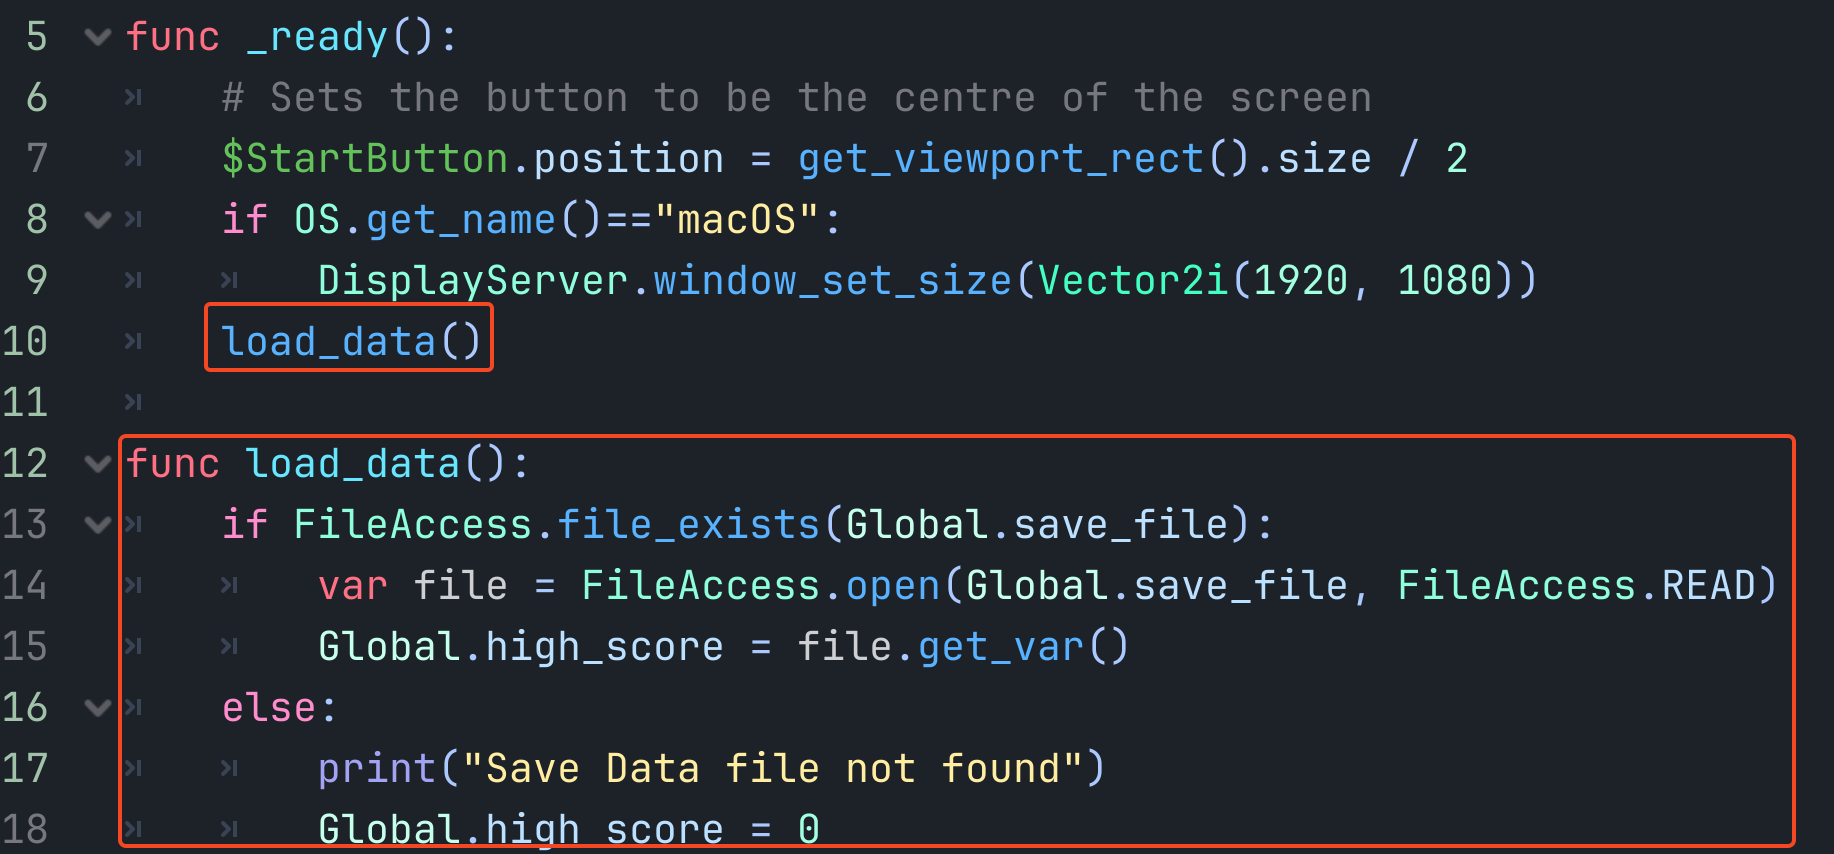
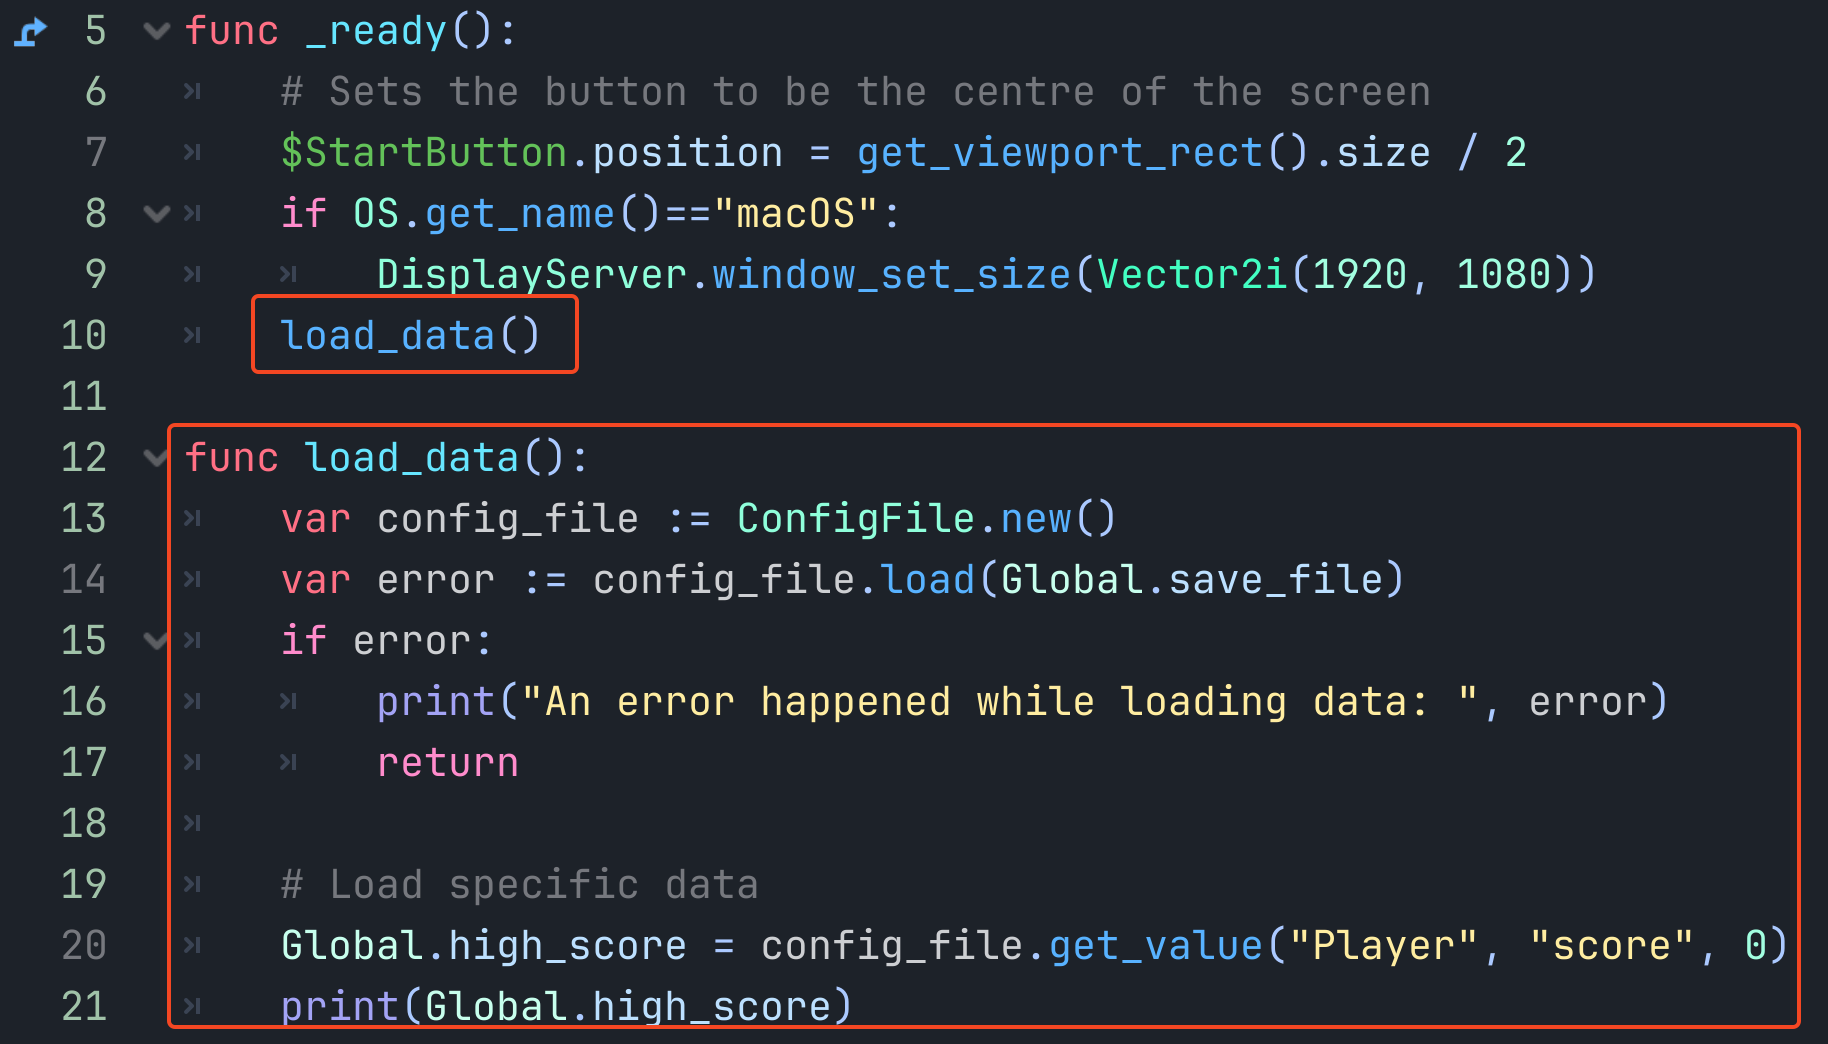
update to ConfigFile

diff --git a/ISD/2 - Digital Applications/_topics/tutorials/High Score System.md b/ISD/2 - Digital Applications/_topics/tutorials/High Score System.md
@@ -3,8 +3,6 @@
 > [!info] The data stored on HDD/SSD, is referred as `persistent data`.
 
 In this tutorial, you'll be storing the players score as persistent data, so subsequent playthroughs can keep a track of the high score.
-
-
 ## Persistent Data
 
 Before implementing any form of persistent data, the exact data that needs to be save must be determined. The points where the data is loaded from and saved to the local drive must be decided.
@@ -13,7 +11,7 @@ Your application must also be prepared for attempting to load the data, however 
 
 Godot has an inbuilt system to save data and nodes to the local drive, however this tutorial will focus on only saving and loading the previous high scores.
 
-Before implementing persistent data, there are a few topics to understand - where the user data is stored and serialisation.
+Before implementing persistent data, there are a few topics to understand - where the user data is stored.
 
 ## Godot User Data
 
@@ -27,12 +25,6 @@ User data uses the `user://` prefix which points to a different folder which is 
 > `%APPDATA%\Godot\app_userdata\[project_name]` on Windows.
 > 
 > [https://docs.godotengine.org/en/stable/tutorials/io/data_paths.html](https://docs.godotengine.org/en/stable/tutorials/io/data_paths.html)
-
-## Serialisation
-
-`Serialisation` is the process of preparing data and objects to save to disk or transmitted.
-
-In this case, you will want to serialise and store the `current_score` variable in `Global.gd`.
 
 # Update `Global.gd`
 
@@ -60,17 +52,34 @@ In the new script create a `save_data()` function, calling it from `_ready()`.
 Inside `save_data()`, the connection to the file is created, and opened to write data to it. 
 
 After the connection is made, you simply write the value of the variable to the file using `store_var` which uses the Godot built in serialisation process.
+
+> [!info]- `set_value()`
+> When saving individual variables to the file, you use the `set_value` function. The function takes three arguments.
+> **First argument** - The *section*. This is a way to organise the save file. For instance, all the Player variables would be stored in the Player section.
+> **Second argument** - The *key*. This is equivalent to the variable name. It's organised like a key-value-pair or dictionary where keys have a particular value.
+> **Third argument** - The *value*. This is the actual data that you want to save.
+> So the code below would create a "Player" section, which contained a "score" key, with a specific value attached.
+
 ![[persistentDataFuncSave.png]]
+
+```gdscript
+func save_data():
+	var file = ConfigFile.new()
+	#var error = file.open(Global.save_file, file.WRITE)
+	file.set_value("Player", "score", Global.current_score)
+	var error := file.save(Global.save_file)
+
+	if error:
+		print("!!Data Not Saved!!")
+```
 
 ## Test the saving process
 
 Run through the game, killing all the enemies. 
 
-After the Win scene has been loaded, you should find `save.dat` in the user directory (see above).
+After the Win scene has been loaded, you should find `save.dat` in the user directory (see above). You'll notice that the structure of the file matches the `set_value` function with `"Player"` (the section) and `"score"` (the key).
 
-Opening the file to view the content won't be very useful, as you will see the binary data after the serialisation process.
-
-![[persistentDataBinaryData.png]]
+![[persistentDataFileContents.png]]
 
 ![[commonBlocks#Commit & Push]]
 # Loading Data
@@ -82,14 +91,18 @@ Open `main_menu.gd` and create a new function - `load_data()`. This function wil
 ![[persistentDataFuncLoad.png]]
 
 
+
 ```gdscript
 func load_data():
-	if FileAccess.file_exists(Global.save_file):
-		var file = FileAccess.open(Global.save_file, FileAccess.READ)
-		Global.high_score = file.get_var()
-	else:
-		print("Save Data file not found")
-		Global.high_score = 0
+	var config_file := ConfigFile.new()
+	var error := config_file.load(Global.save_file)
+	if error:
+		print("An error happened while loading data: ", error)
+		return
+	
+	# Load specific data
+	Global.high_score = config_file.get_value("Player", "score", 0)
+	print(Global.high_score)
 ```
 
 

diff --git a/ISD/2 - Digital Applications/First Person Shooter.md b/ISD/2 - Digital Applications/First Person Shooter.md
@@ -162,7 +162,7 @@ tags:
 > #### Theory
 > N/A
 > #### Practical
-> N/A
+> - [[ISD/2 - Digital Applications/_topics/tutorials/High Score System|High Score System]]
 
 > [!danger]- Week 13
 > ![[semesterCalendarS2#School Events - Week 13]]
